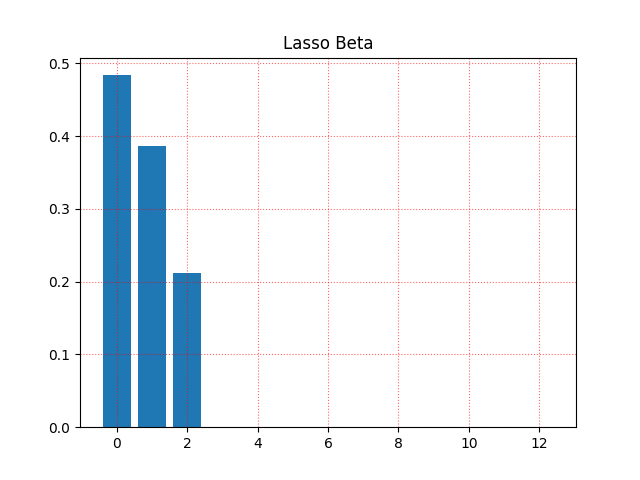
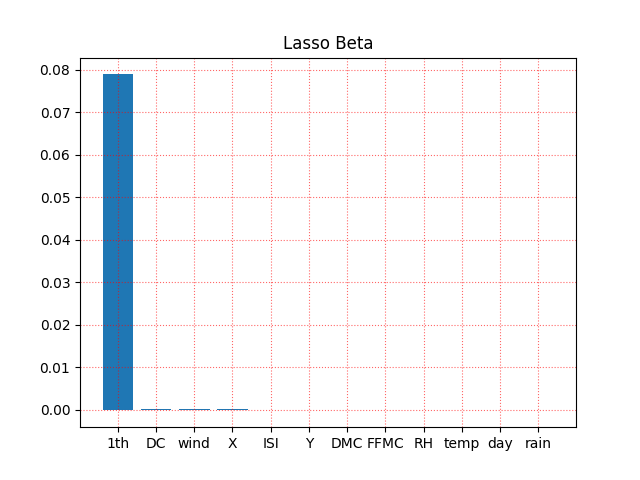
seventh

diff --git a/model.py b/model.py
@@ -2,7 +2,7 @@
 #  Spline Regression and Lasso Regression.
 import numpy as np
 from dataset import get_data
-from data_preprocess import DataSet
+# from data_preprocess import DataSet
 from matplotlib import pyplot as plt
 
 # y_i = beta.T @ X_i
@@ -29,7 +29,7 @@ class LinearRegression:
         Y = np.array(Y_train)
         self.beta = np.linalg.inv(X.T @ X) @ X.T @ Y
     
-    def update(self, lr = 0.000002):
+    def update(self, lr = 0.00002):
         self.beta = self.beta - lr * self.deri
     
     def predict(self, X):
@@ -132,7 +132,7 @@ class LassoRegression:
         self.deri = (self.X.T @ (Y_predict - self.Y) + self.Lambda * np.sign(self.beta)) / self.num
         return self.deri
     
-    def update(self, lr = 0.000002):
+    def update(self, lr = 0.001):
         self.beta = self.beta - lr * self.deri
     
     def predict(self, X): 
@@ -158,31 +158,41 @@ def sse_loss(Y_predict, Y_test):
         sum += (i - j)**2
     return sum
 
-def polt_beta(beta, name):
+def polt_beta(beta, name, is_removed_bias = 1):
     x = beta.copy()
-    x = abs(np.sort(-x))
-    plt.bar(range(13), x)
+    attri = np.array(['bias','X','Y','1th','day','FFMC','DMC','DC','ISI','temp','RH','wind','rain'])
+    if is_removed_bias:
+        attri = attri[1:]
+        x = x[1:]
+        
+    attri_idx = np.argsort(-x)
+    x = -np.sort(-x)
+    attri = attri[attri_idx]
+    
+    plt.figure()
+    plt.bar(attri, x)
     plt.grid(True,linestyle=':',color='r',alpha=0.6)
-    plt.title('Lasso Beta')
+    # plt.xlabel(attri)
+    plt.title(f'{name} Beta')
     plt.savefig(f'fig/{name}.png')
 
 if __name__ == "__main__":
-    epochs = 1000000
+    epochs = 1500000
     X_train, X_test, Y_train, Y_test = get_data("./dataset/forestfires.csv")
-    Data = DataSet(X_train, X_test, Y_train, Y_test)
-    Data.normalize() # Data normalization
-    X_train, Y_train = Data.train_set()
-    X_test, Y_test = Data.test_set()
+    # print(X_train.T[3].std())
     
     # Linear = LinearRegression(X_train, Y_train)
-    Ridge = RidgeRegression(X_train, Y_train, 90)
-    Ridge.analysis_fit(X_train, Y_train)
+    # Linear.analysis_fit(X_train, Y_train)
     
-    Kernel = RBFKernelRegression(X_train, Y_train, 5, 50)
-    Kernel.analysis_fit()
+    # Ridge = RidgeRegression(X_train, Y_train, 90)
+    # Ridge.analysis_fit(X_train, Y_train)
+    
+    # Kernel = RBFKernelRegression(X_train, Y_train, 5, 50)
+    # Kernel.analysis_fit()
     
     Lasso = LassoRegression(X_train, Y_train, 60)
-    Lasso.CoordinateDescent(1.5, 0.01, 1000)
+    # Lasso.CoordinateDescent(1.7, 0.01, 10000)
+    
     # for epoch in range(epochs):
     #     loss = Linear.loss()
     #     deri = Linear.derivative()
@@ -201,6 +211,9 @@ if __name__ == "__main__":
     # print(f'Ridge: {sse_loss(Ridge.predict(X_test), Y_test)}')
     # print(f'RBFKerner: {sse_loss(Kernel.predict(X_test), Y_test)}')
 
-    print(f'Lasso: {sse_loss(Lasso.predict(X_test), Y_test)}')
-    print(Lasso.beta)
-    polt_beta(Lasso.beta, 'Lasso')
+    # print(Linear.beta)
+    # polt_beta(Linear.beta, 'Linear')
+
+    # print(f'Lasso: {sse_loss(Lasso.predict(X_test), Y_test)}')
+    # print(Lasso.beta)
+    # polt_beta(Lasso.beta, 'Lasso')

diff --git a/dataset/dataset.py b/dataset/dataset.py
@@ -1,9 +1,6 @@
 import pandas as pd
 import numpy as np
 
-import pandas as pd
-import numpy as np
-
 
 def get_data(
     data_path: str,                       # file path of data to read
@@ -11,6 +8,7 @@ def get_data(
     test_sample_num: float = 67,          # number of samples to use for testing
     is_bias: bool = True,                 # whether to add a bias term to the features
     is_shuffle: bool = False,             # whether to shuffle the samples
+    is_normalized: bool = True,
     )-> tuple:
 
     X_list = []                           # create an empty list to store the features
@@ -23,6 +21,15 @@ def get_data(
         Y_list.append(Y_piece)            # append the label to the list
 
     X = np.array(X_list)                  # convert the list of features to a numpy array
+
+    #######################################################################
+    #### 2023.3.29 update: normalize the data, so that each dimension has zero mean and unit variance
+    #######################################################################
+    if is_normalized:  # if the normalize flag is set to True
+        for i in range(0, X.shape[-1]):
+            X[:, i] = (X[:, i] - X[:, i].mean()) / X[:, i].std()
+    #######################################################################
+
     if is_bias:                           # if the bias flag is set to True
         X = np.concatenate([np.ones((len(X_list),1)),X],axis=1).astype(np.float32)  # add a column of ones to the features as the bias term
     else:                                 # if the bias flag is set to False
@@ -36,6 +43,9 @@ def get_data(
         np.random.shuffle(indexes)        # shuffle the indexes randomly
         X = X[indexes]                    # shuffle the features based on the shuffled indexes
         Y = Y[indexes]                    # shuffle the labels based on the shuffled indexes
+
+    # print(X.mean())
+    # print(X.var())
 
     X_train = X[:train_sample_num]        # extract the training features from the beginning of the numpy array
     Y_train = Y[:train_sample_num]        # extract the training labels from the beginning of the numpy array

diff --git a/test.py b/test.py
@@ -15,6 +15,12 @@ X_train, X_test, Y_train, Y_test = get_data("./dataset/forestfires.csv")
 
 # print(max(0, -1))
 
-x = np.array([1, 2, 3, 4])
-x.sort()
-print(x)
+# x = np.array([1, 2, 3, 4])
+# x.sort()
+# print(x)
+
+
+a = np.array([3, 5, 1])
+b = np.argsort(-a)
+print("a:", end='')
+print(b)
